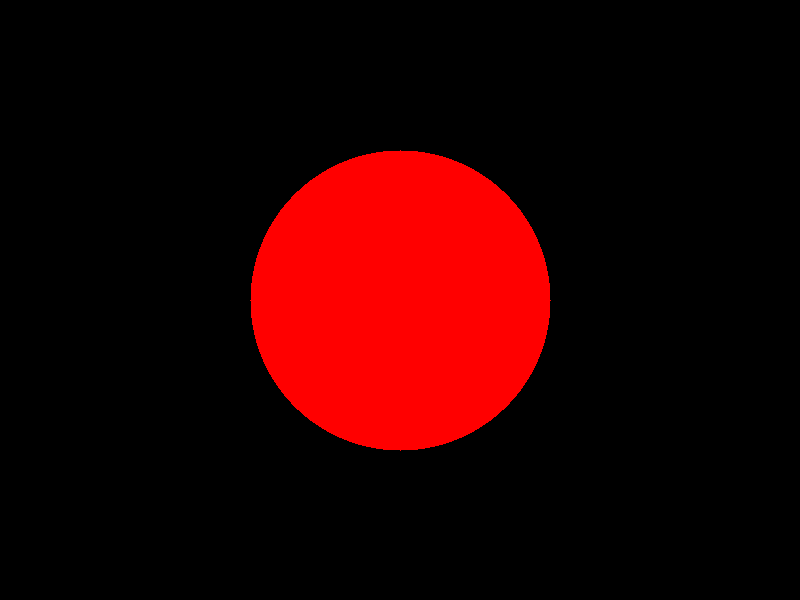
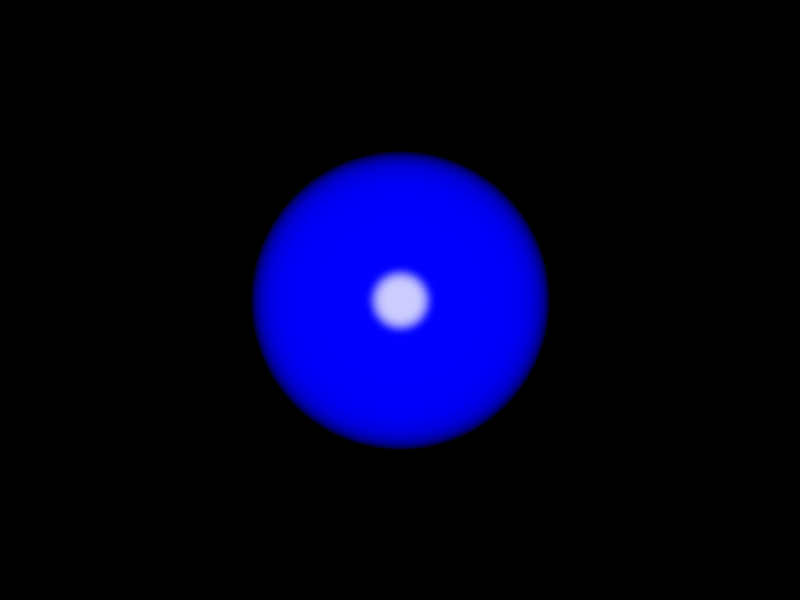
direct load from memories - (not file)

Changed region(s): [[0.3125, 0.24, 0.6875, 0.75]]

diff --git a/src/texture.rs b/src/texture.rs
@@ -1,5 +1,5 @@
 use anyhow::*;
-use image::GenericImageView;
+use image::{DynamicImage, GenericImageView};
 
 pub struct Texture {
     pub texture: wgpu::Texture,
@@ -26,6 +26,70 @@ impl Texture {
     ) -> Result<Self> {
         let rgba = img.to_rgba8();
         let dimensions = img.dimensions();
+
+        let size = wgpu::Extent3d {
+            width: dimensions.0,
+            height: dimensions.1,
+            depth_or_array_layers: 1,
+        };
+        let format = wgpu::TextureFormat::Rgba8UnormSrgb;
+        let texture = device.create_texture(
+            &wgpu::TextureDescriptor {
+                label,
+                size,
+                mip_level_count: 1,
+                sample_count: 1,
+                dimension: wgpu::TextureDimension::D2,
+                format,
+                usage: wgpu::TextureUsages::TEXTURE_BINDING | wgpu::TextureUsages::COPY_DST,
+                view_formats: &[],
+            }
+        );
+
+        queue.write_texture(
+            wgpu::ImageCopyTexture {
+                aspect: wgpu::TextureAspect::All,
+                texture: &texture,
+                mip_level: 0,
+                origin: wgpu::Origin3d::ZERO,
+            },
+            &rgba,
+            wgpu::ImageDataLayout {
+                offset: 0,
+                bytes_per_row: Some(4 * dimensions.0),
+                rows_per_image: Some(dimensions.1),
+            },
+            size,
+        );
+
+        let view = texture.create_view(&wgpu::TextureViewDescriptor::default());
+        let sampler = device.create_sampler(
+            &wgpu::SamplerDescriptor {
+                address_mode_u: wgpu::AddressMode::ClampToEdge,
+                address_mode_v: wgpu::AddressMode::ClampToEdge,
+                address_mode_w: wgpu::AddressMode::ClampToEdge,
+                mipmap_filter: wgpu::FilterMode::Nearest,
+                min_filter: wgpu::FilterMode::Linear,
+                mag_filter: wgpu::FilterMode::Linear,
+                ..Default::default()
+            }
+        );
+
+        Ok(Self {
+            texture,
+            view,
+            sampler,
+        })
+    }
+
+    pub fn from_image_buffer(
+        device: &wgpu::Device,
+        queue: &wgpu::Queue,
+        img: &image::ImageBuffer<image::Rgb<u8>, Vec<u8>>,
+        label: Option<&str>,
+    ) -> Result<Self> {
+        let rgba = image::DynamicImage::from(img.clone()).to_rgba8();
+        let dimensions = (img.width(), img.height());
 
         let size = wgpu::Extent3d {
             width: dimensions.0,

diff --git a/src/raytracer.rs b/src/raytracer.rs
@@ -1,4 +1,6 @@
+use std::ops::Mul;
 use std::time::Instant;
+use cgmath::InnerSpace;
 use image::{EncodableLayout, ImageBuffer};
 // https://doc.rust-kr.org/ch17-00-oop.html
 use crate::ray::Ray;
@@ -19,7 +21,7 @@ impl Raytracer {
         sphere.amb = cgmath::vec3(0.0, 0.0, 0.0);
         sphere.diff = cgmath::vec3(0.0, 0.0, 1.0);
         sphere.spec = cgmath::vec3(1.0, 1.0, 1.0);
-        sphere.alpha = 9.0;
+        sphere.alpha = 100000.0;
         sphere.ks = 0.8;
 
         // located back of screen
@@ -30,16 +32,33 @@ impl Raytracer {
 
     pub fn tracy_ray(&self, ray: Ray) -> cgmath::Vector3<f32> {
 
+        let dir = ray.dir.clone();
         let hit = self.sphere.intersect_ray_collision(ray);
 
         if hit.d < 0.0 {
             return cgmath::vec3(0.0, 0.0, 0.0);
         } else {
-            return cgmath::vec3(1.0, 0.0, 0.0);
+            // Phong reflection model.
+
+            // diffuse
+            let l = (self.light.pos - hit.point).normalize();
+            let n = hit.normal.normalize();
+
+            let diff = cgmath::dot(n, l).max(0.0);
+
+            // specular
+            let r = 2.0 * cgmath::dot(n, l) * n - l;
+            let e = dir.mul(-1.0).normalize();
+
+            let specular = cgmath::dot(r, e)
+                .max(0.0)
+                .powf(self.sphere.alpha);
+
+            return self.sphere.amb + self.sphere.diff * diff + self.sphere.spec * specular * self.sphere.ks
         }
     }
 
-    pub fn render(&self, mut imgbuf: ImageBuffer<image::Rgb<u8>, Vec<u8>>) {
+    pub fn render(&self, mut imgbuf: &mut ImageBuffer<image::Rgb<u8>, Vec<u8>>) {
         println!("start of render!");
 
         let start = Instant::now();
@@ -68,7 +87,7 @@ impl Raytracer {
         println!("end of render! {:?} ms", elapsed.as_millis());
 
         // For debugging
-        image::save_buffer("tmp_ray_result.png", imgbuf.as_bytes(), self.width as u32, self.height as u32, image::ExtendedColorType::Rgb8).unwrap()
+        image::save_buffer("tmp_ray_result.png", imgbuf.as_bytes(), self.width as u32, self.height as u32, image::ExtendedColorType::Rgb8).unwrap();
     }
 
     fn transform_screen_to_world(&self, pos: cgmath::Vector2<f32>) -> cgmath::Vector3<f32> {

diff --git a/src/state.rs b/src/state.rs
@@ -1,5 +1,5 @@
 use std::iter;
-use image::EncodableLayout;
+use image::{EncodableLayout, ImageBuffer, RgbaImage};
 use wgpu::util::DeviceExt;
 
 use winit::event::WindowEvent;
@@ -75,7 +75,7 @@ pub struct State<'a> {
 
 impl<'a> State<'a> {
     // Creating some of the wgpu types requires async code
-    pub async fn new(window: &'a Window) -> State<'a> {
+    pub async fn new(window: &'a Window, mut imgbuf: &mut ImageBuffer<image::Rgb<u8>, Vec<u8>>) -> State<'a> {
         let size = window.inner_size();
 
         // the instance is a handle to our GPU
@@ -141,32 +141,12 @@ impl<'a> State<'a> {
             desired_maximum_frame_latency: 2,
         };
 
-        // image test
-        let mut buffer = image::ImageBuffer::new(800, 600);
+        // let diffuse_bytes = include_bytes!("../tmp_ray_result.png");
+        // let diffuse_texture =
+        //     texture::Texture::from_bytes(&device, &queue, diffuse_bytes, "image").unwrap();
 
-        for (x, y, pixel) in buffer.enumerate_pixels_mut() {
-            *pixel = image::Rgb([1, 0, 0]);
-        }
-
-        // buffer.save("fractal.png").unwrap();
-
-        //
-        // // buffer.get_pixel(0, 0).
-        //
-        let mut img = image::RgbImage::new(32, 32);
-
-        for x in 15..=17 {
-            for y in 8..24 {
-                img.put_pixel(x, y, image::Rgb([255, 0, 0]));
-                img.put_pixel(y, x, image::Rgb([255, 255, 0]));
-            }
-        }
-
-        image::save_buffer("result.png", img.as_bytes(), 32, 32, image::ExtendedColorType::Rgb8).unwrap();
-
-        let diffuse_bytes = include_bytes!("../tmp_ray_result.png");
         let diffuse_texture =
-            texture::Texture::from_bytes(&device, &queue, diffuse_bytes, "image").unwrap();
+            texture::Texture::from_image_buffer(&device, &queue, imgbuf, Some("texture")).unwrap();
 
         let texture_bind_group_layout =
             device.create_bind_group_layout(&wgpu::BindGroupLayoutDescriptor {

diff --git a/src/main.rs b/src/main.rs
@@ -1,3 +1,4 @@
+use image::{DynamicImage, EncodableLayout, RgbaImage};
 use raytracing_rs::raytracer::Raytracer;
 use raytracing_rs::state::State;
 
@@ -27,10 +28,10 @@ async fn run() {
      * Start ray tracing
      */
     let ray = Raytracer::new(width, height);
-    ray.render(img_buff);
+    ray.render(&mut img_buff);
 
     // initialize wgpu
-    let mut state = State::new(&window).await;
+    let mut state = State::new(&window, &mut img_buff).await;
 
     // State::new uses async code, so we're going to wait for it to finish
     let mut surface_configured = false;
